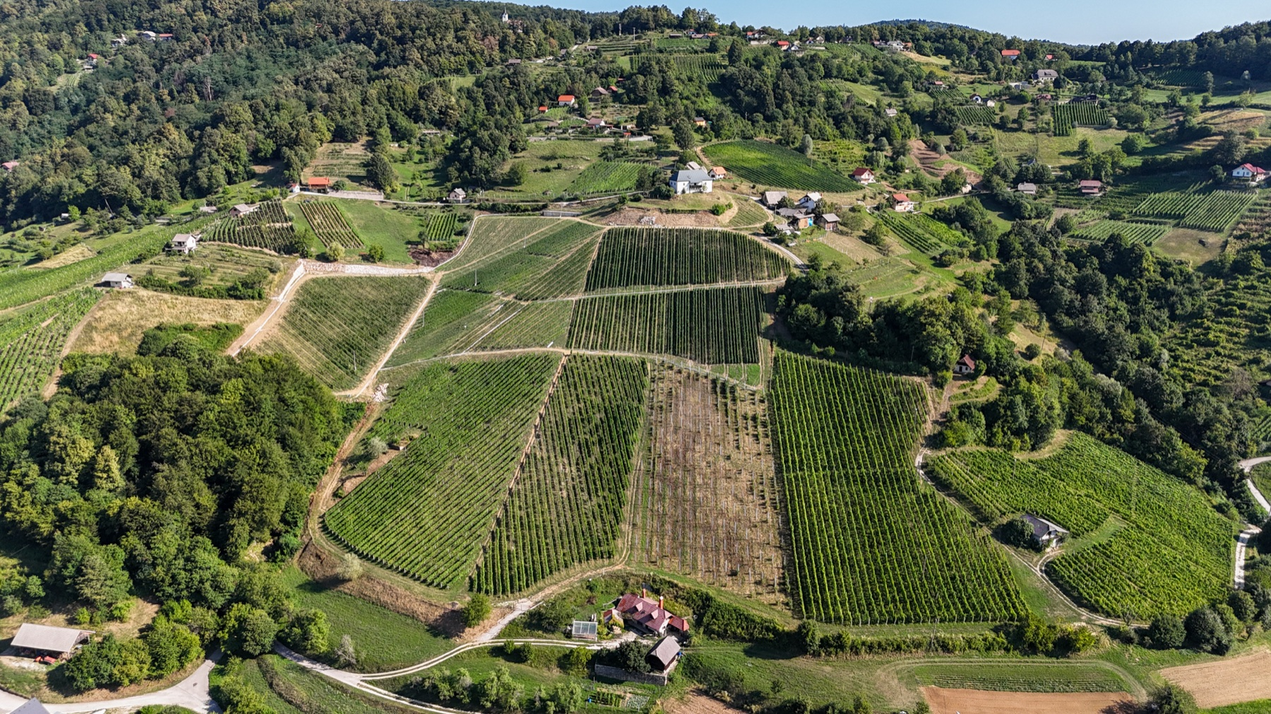
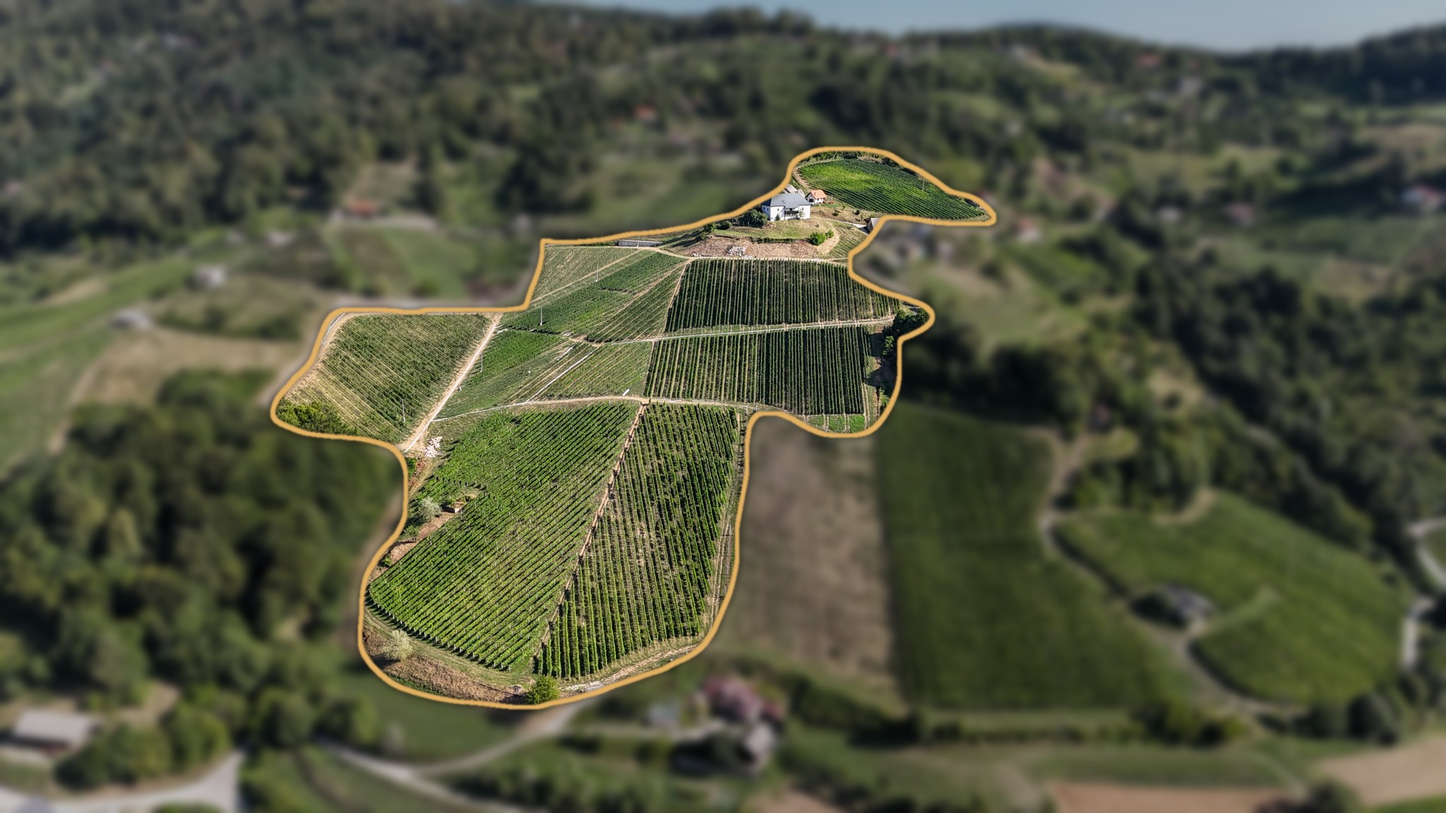
Vineyards: each parcel outlined in gold and in focus, the land around it softly blurred
Built from the clean drone originals, following the owner's hand-drawn white
outlines; the frames take the aerials' own 16:9 so no outline is cropped.

diff --git a/src/styles/site.css b/src/styles/site.css
@@ -3386,7 +3386,8 @@ a.meta-value {
   display: flex;
   align-items: center;
   justify-content: center;
-  aspect-ratio: 4 / 3;
+  /* The aerials' own shape, so no parcel outline is cropped at the sides. */
+  aspect-ratio: 16 / 9;
   overflow: hidden;
   background: var(--color-surface);
   border: 1px solid var(--color-divider);
